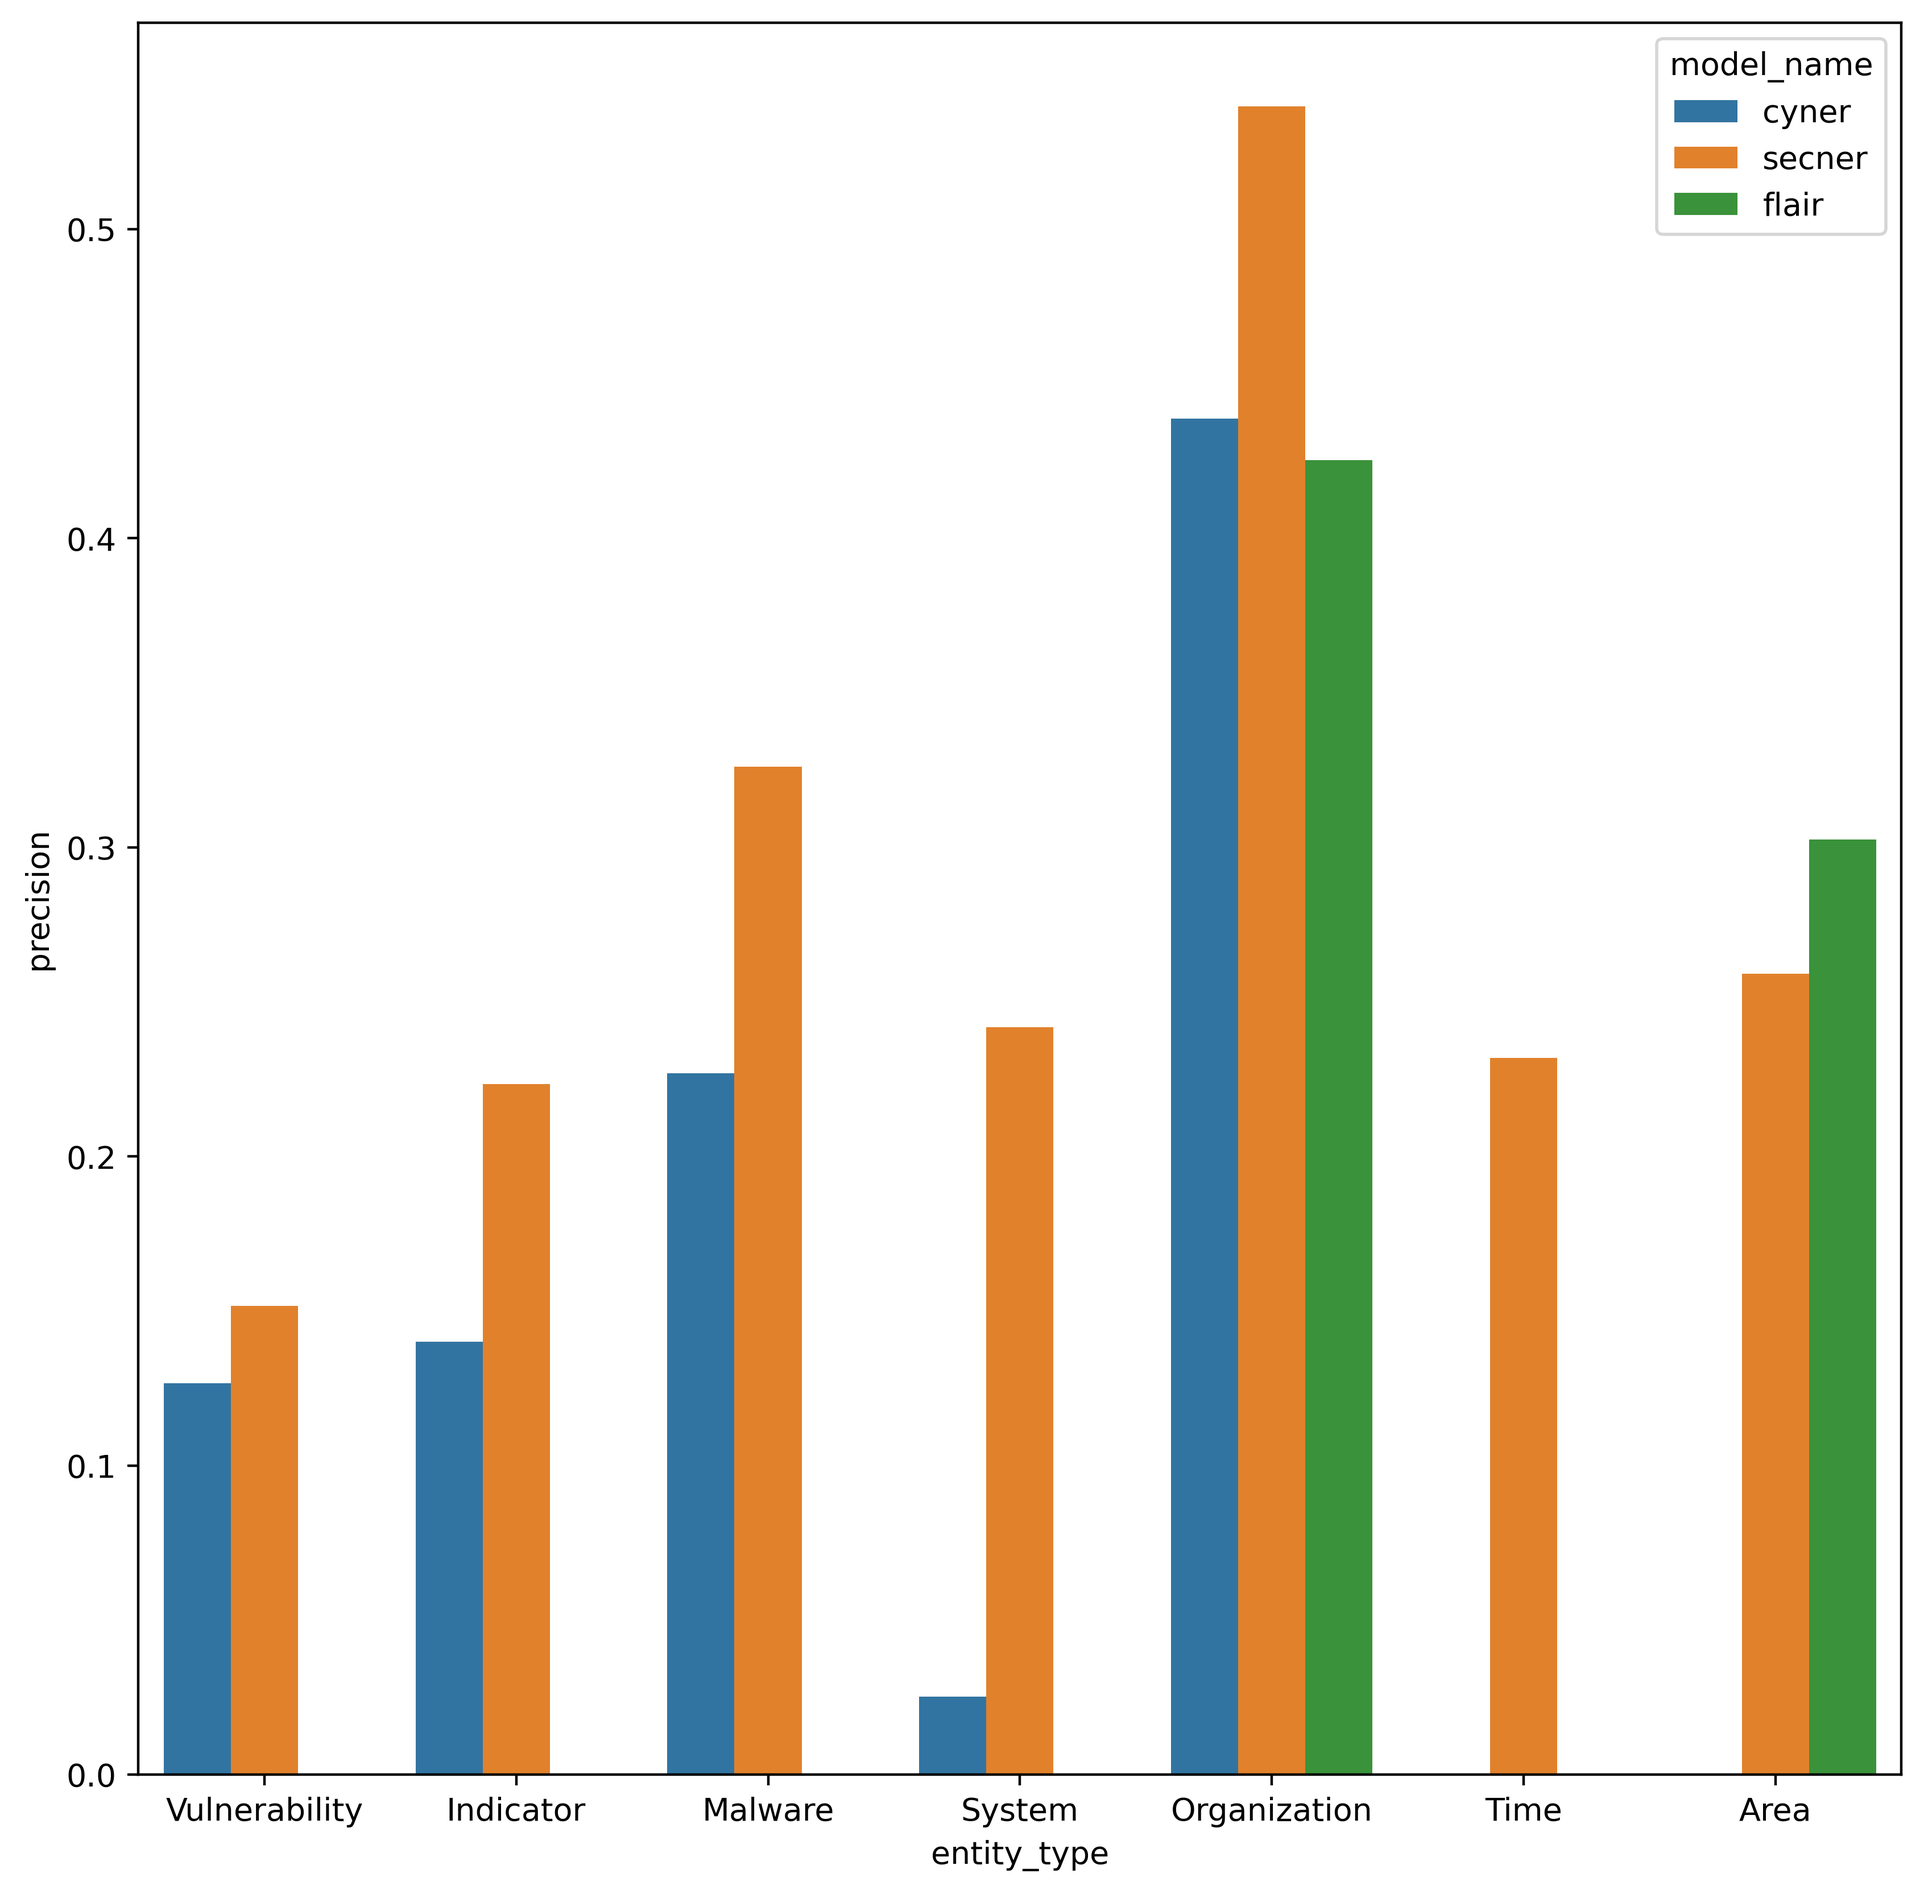
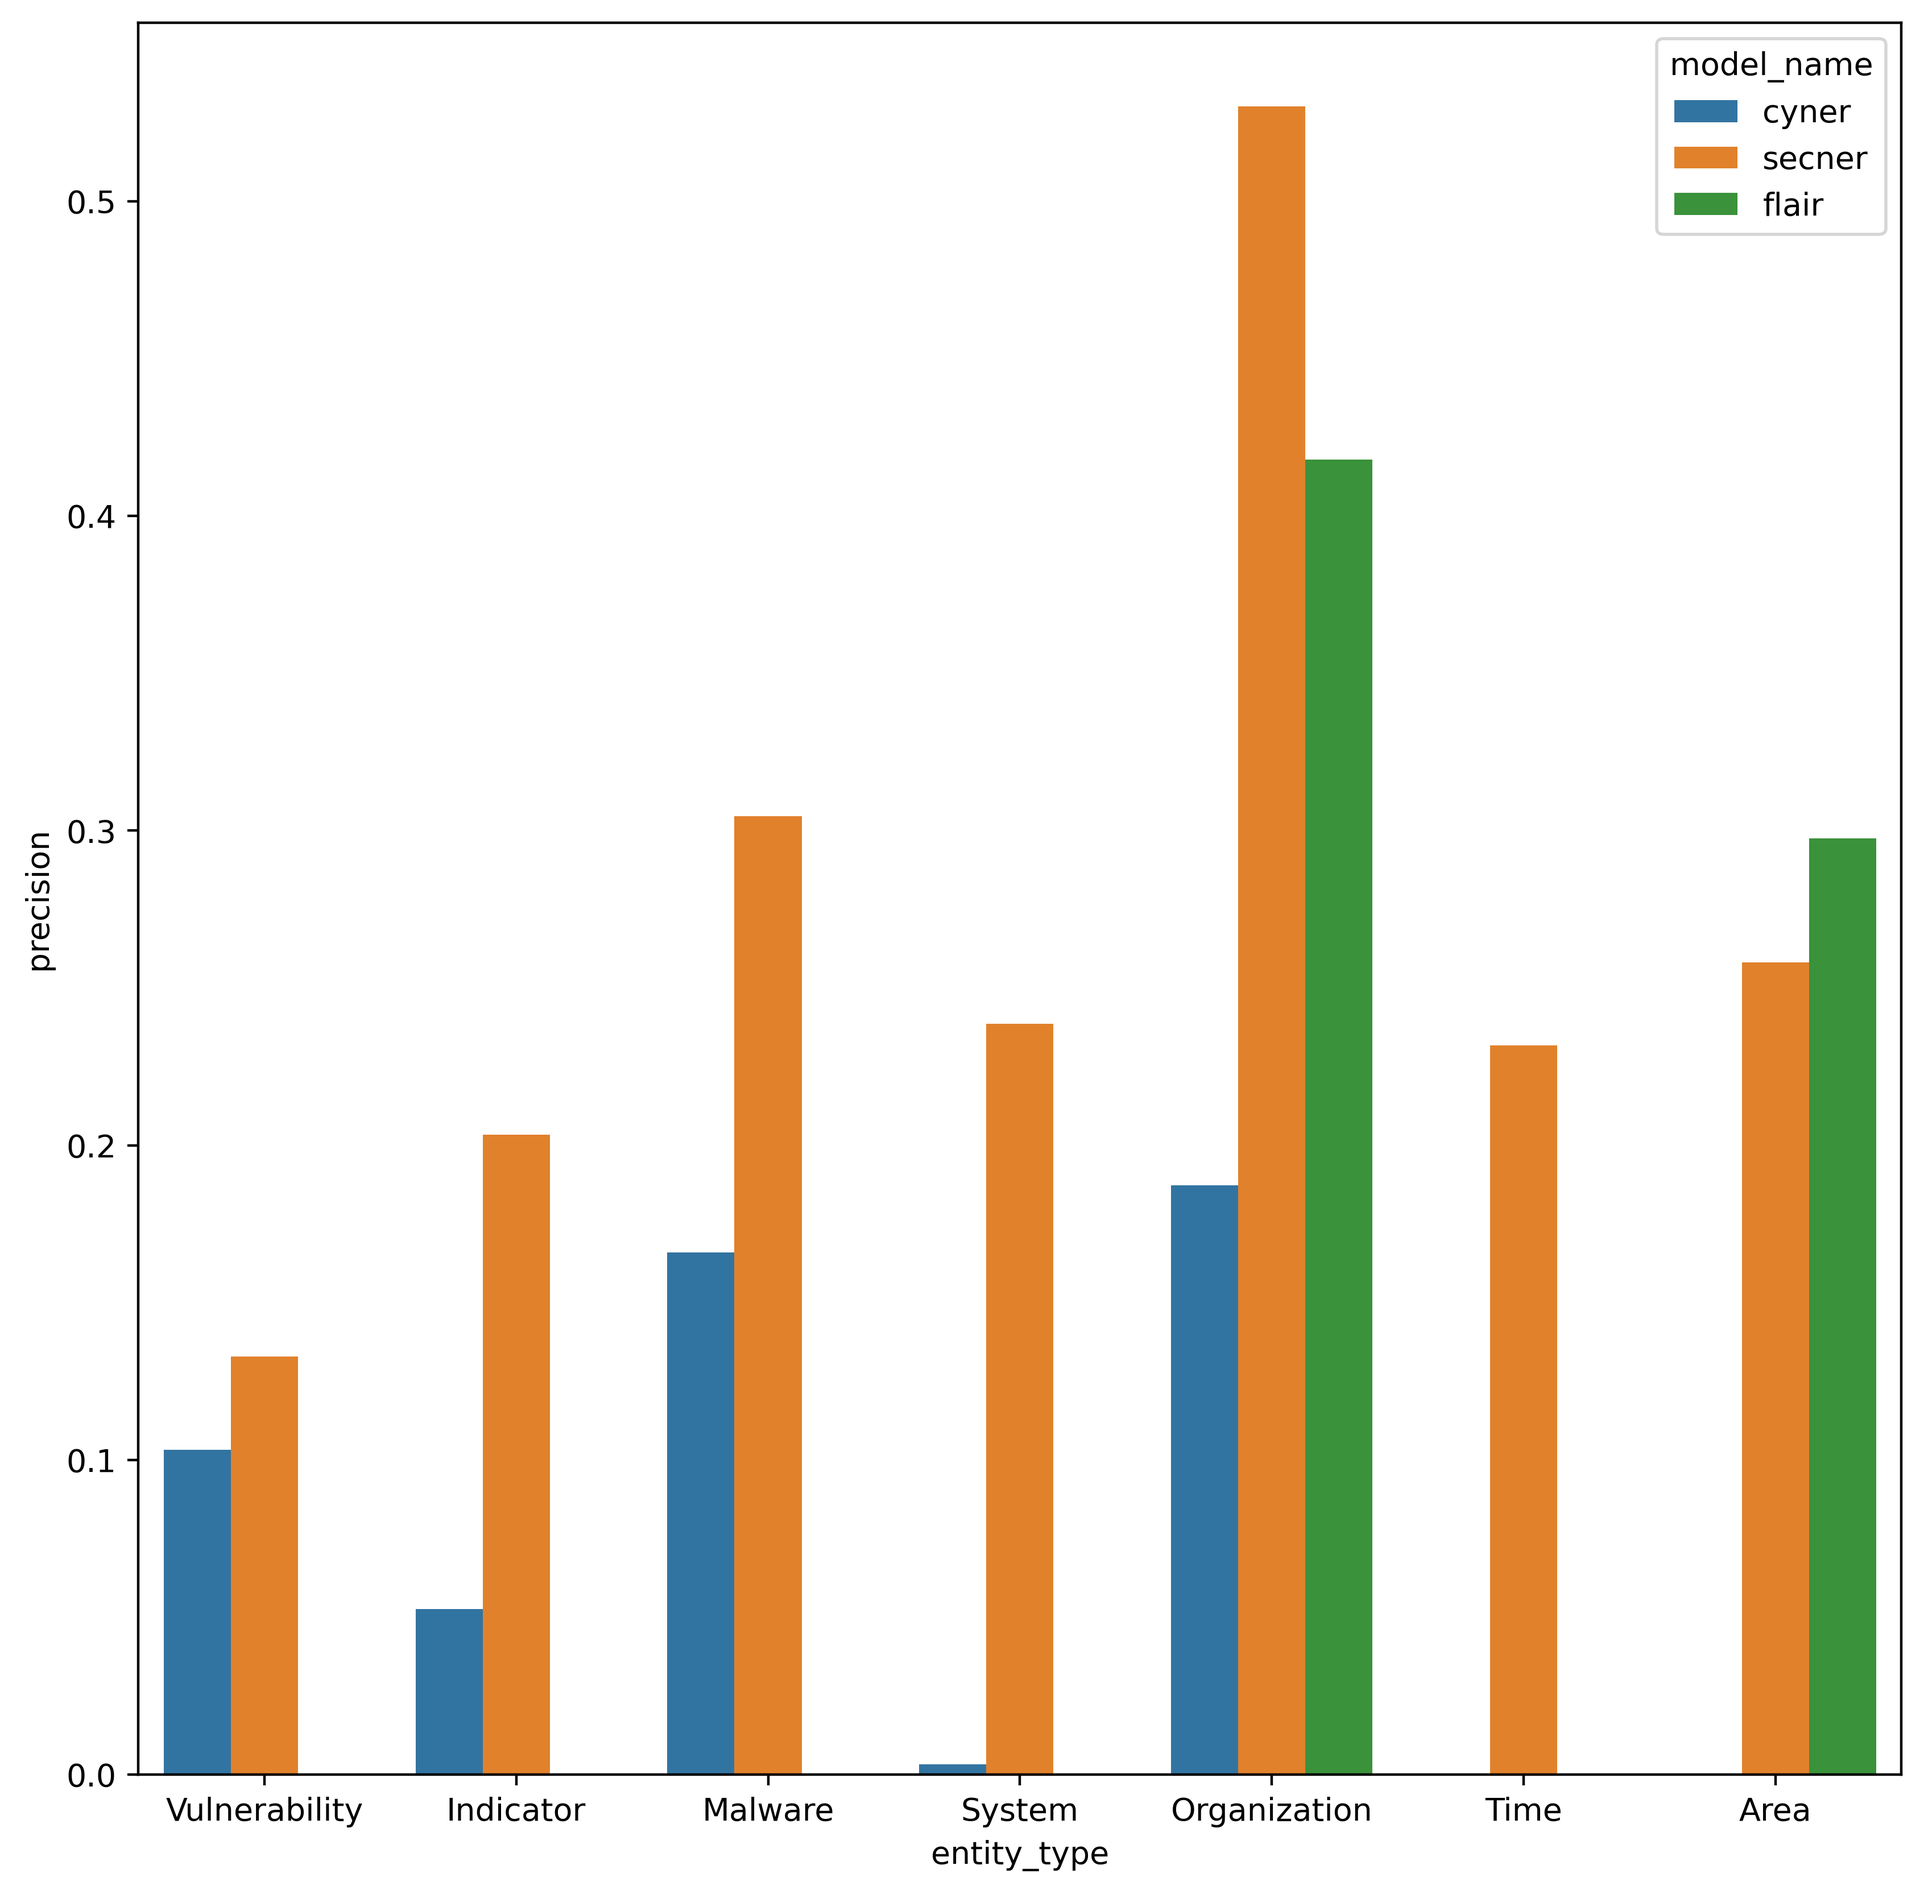
exact -> strict

diff --git a/NER/test/benchmark.py b/NER/test/benchmark.py
@@ -75,11 +75,11 @@ def save_figures(cyner_results, cyner_results_agg, secner_results, secner_result
     plt.savefig("reports/figures/recall.png", dpi=400, bbox_inches="tight")
 
     plt.figure(figsize=(10,10))
-    sns.barplot(per_entity_results[per_entity_results['match_type']=='exact'], x="entity_type", y="precision", hue="model_name")
+    sns.barplot(per_entity_results[per_entity_results['match_type']=='strict'], x="entity_type", y="precision", hue="model_name")
     plt.savefig("reports/figures/per_entity_precision.png", dpi=400, bbox_inches="tight")
 
     plt.figure(figsize=(10,10))
-    sns.barplot(per_entity_results[per_entity_results['match_type']=='exact'], x="entity_type", y="recall", hue="model_name")
+    sns.barplot(per_entity_results[per_entity_results['match_type']=='strict'], x="entity_type", y="recall", hue="model_name")
     plt.savefig("reports/figures/per_entity_recall.png", dpi=400, bbox_inches="tight")
 
 
